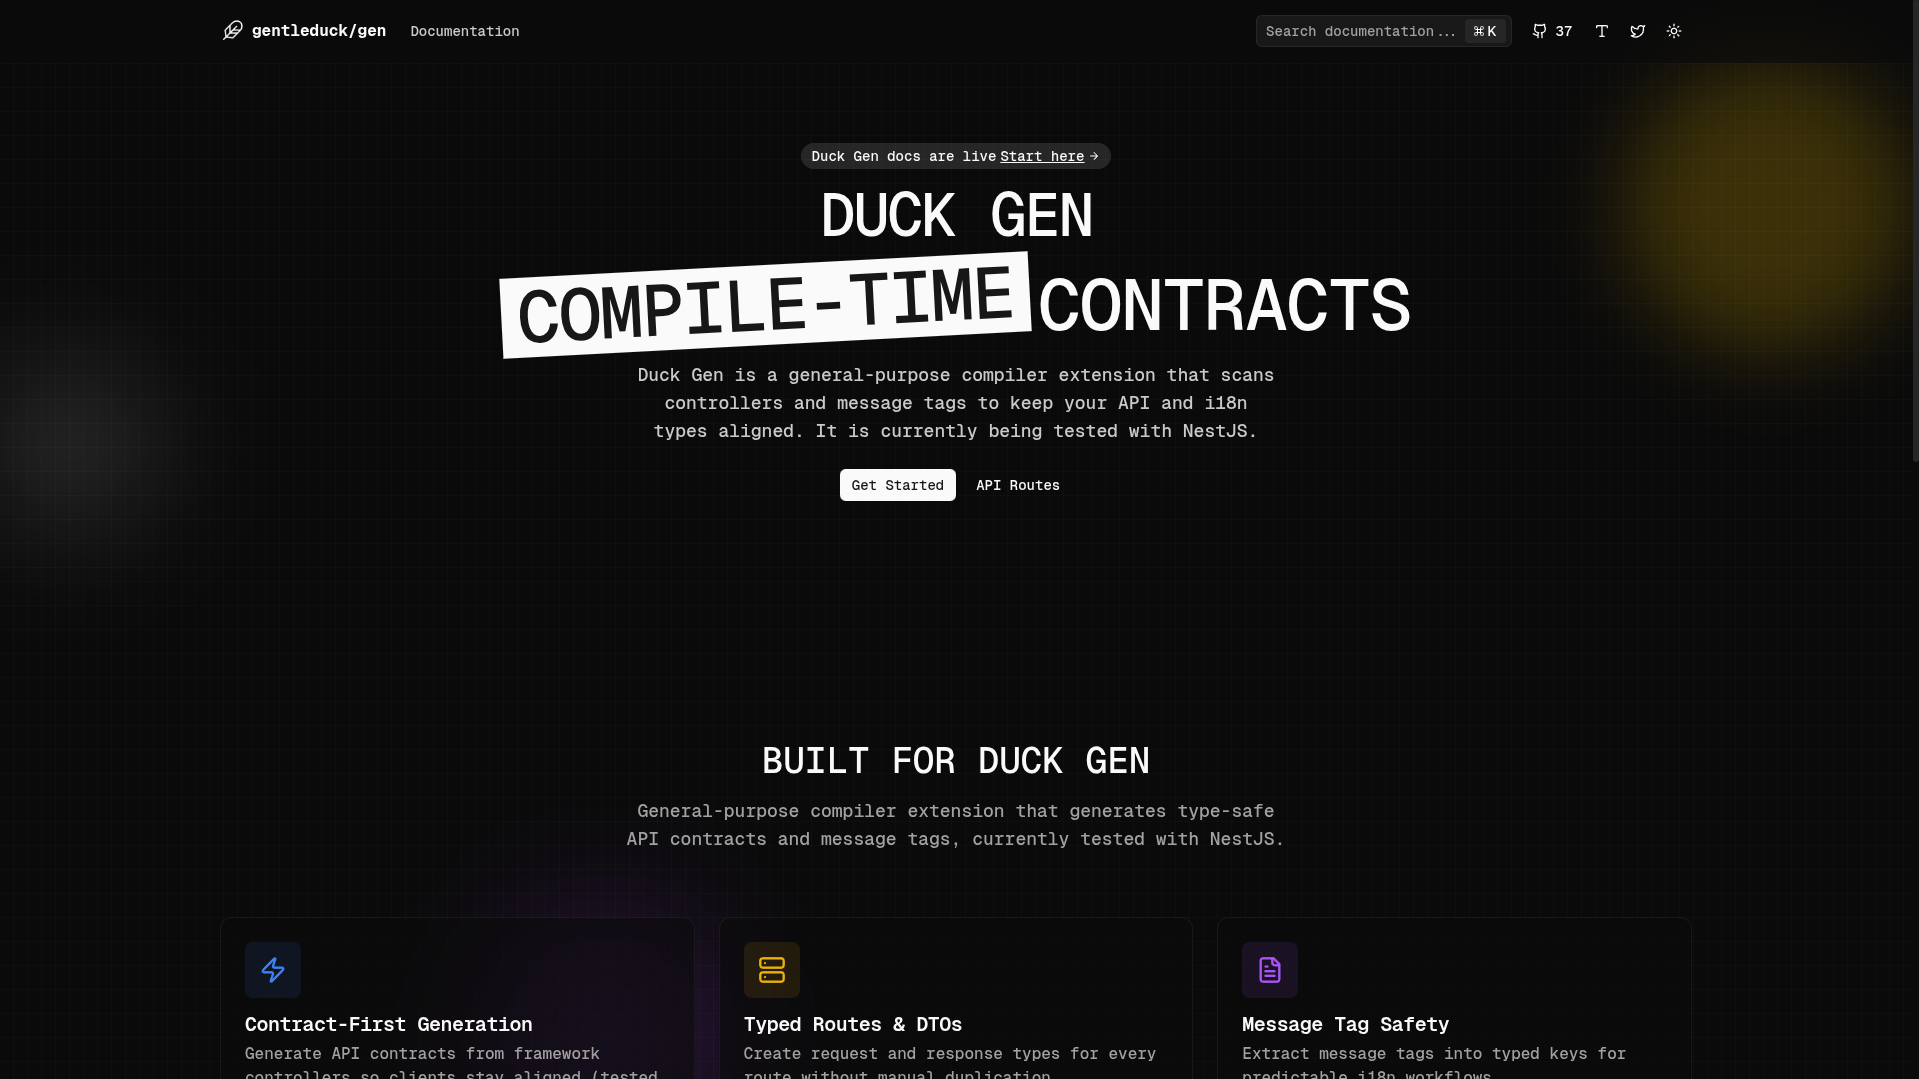
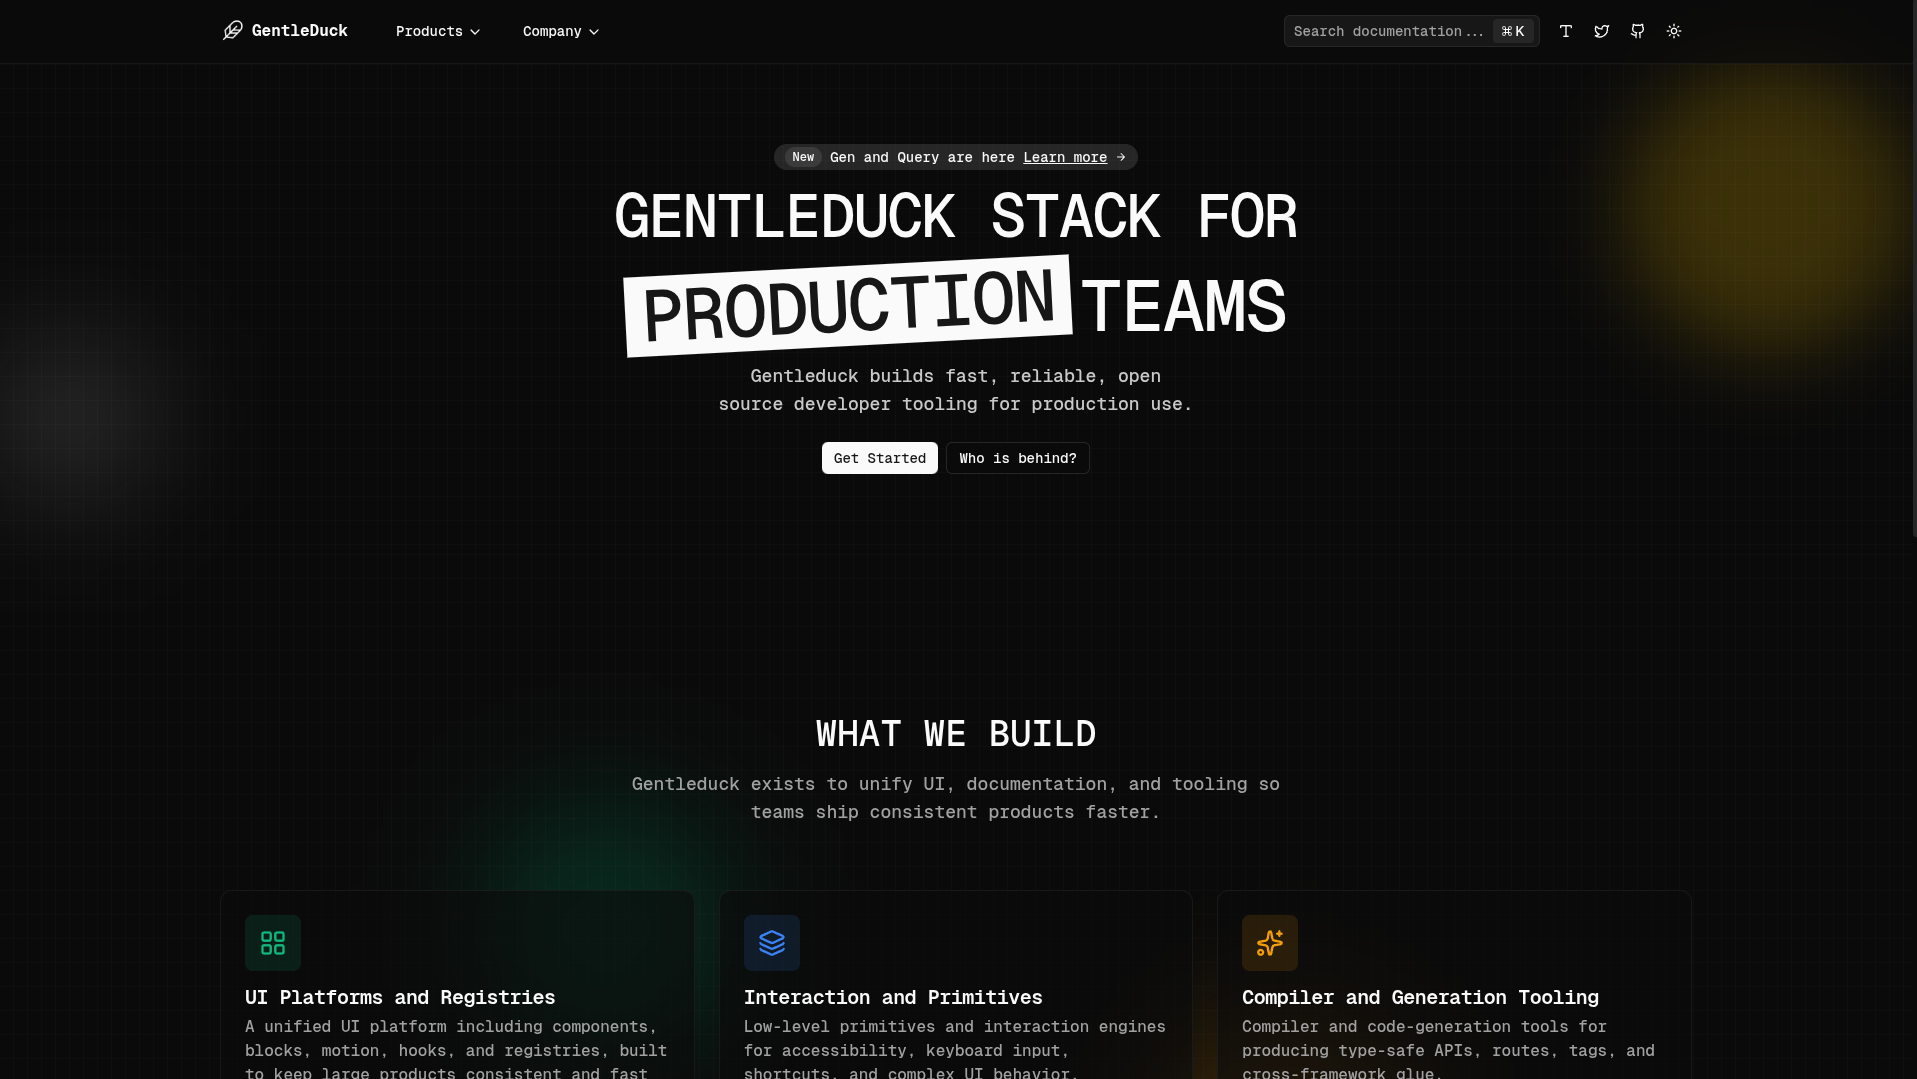
fix(all): add package extension for @hookform/resolvers to include zod dependency, update README files for duck-gen-docs and duck-ui-docs, and add initial README for duck-www

diff --git a/apps/duck-ui-docs/next.config.ts b/apps/duck-ui-docs/next.config.ts
@@ -3,6 +3,11 @@ import type { NextConfig } from 'next'
 
 const nextConfig: NextConfig = {
   devIndicators: false,
+  turbopack: {
+    resolveAlias: {
+      'zod/v4/core': path.resolve(__dirname, 'node_modules/zod/v4/core'),
+    },
+  },
   images: {
     remotePatterns: [
       {

diff --git a/apps/www/README.md b/apps/www/README.md
@@ -1,0 +1,31 @@
+<p align="center">
+  <img src="./public/og/root.png" alt="duck ui root" width="800"/>
+</p>
+
+# @gentleduck/duck-www
+
+Next.js documentation site for Gentleduck UI. Covers components, blocks, charts, themes, and registry-powered previews.
+
+## Stack
+- Next.js App Router
+- `@gentleduck/duck-docs` (shared docs kit)
+- Velite (MDX pipeline)
+- Registry tooling for component previews
+
+## Quick Start
+```bash
+pnpm --filter @gentleduck/www dev:docs
+pnpm --filter @gentleduck/www dev
+```
+
+## Scripts
+- `pnpm --filter @gentleduck/www dev` – run the dev server
+- `pnpm --filter @gentleduck/www build` – production build
+- `pnpm --filter @gentleduck/www start` – serve the build
+- `pnpm --filter @gentleduck/www dev:docs` – watch/generate MDX content
+- `pnpm --filter @gentleduck/www build:docs` – one-time MDX build
+- `pnpm --filter @gentleduck/www build:reg` – rebuild the UI registry and format output
+- `pnpm --filter @gentleduck/www lint` – lint
+
+## Environment
+- `.env` is optional; see `.env.example` for defaults.

diff --git a/apps/duck-ui-docs/README.md b/apps/duck-ui-docs/README.md
@@ -27,14 +27,5 @@ pnpm --filter @gentleduck/ui-docs dev
 - `pnpm --filter @gentleduck/ui-docs build:reg` – rebuild the UI registry and format output
 - `pnpm --filter @gentleduck/ui-docs lint` – lint
 
-## Content
-- `apps/duck-ui-docs/content/docs/**` – MDX sources
-- `apps/duck-ui-docs/.velite/` – generated content (do not edit)
-- `apps/duck-ui-docs/__ui_registry__/` – generated registry data
-- `apps/duck-ui-docs/public/r/` – registry exports used in docs
-
-## Registry Previews
-- `apps/duck-ui-docs/velite-configs/plugins/rehype-component.ts` injects registry source and previews into MDX.
-
 ## Environment
 - `.env` is optional; see `.env.example` for defaults.

diff --git a/apps/duck-gen-docs/README.md b/apps/duck-gen-docs/README.md
@@ -19,10 +19,5 @@ pnpm --filter @gentleduck/gen-docs dev
 - `pnpm --filter @gentleduck/gen-docs build:docs` – one-time MDX build
 - `pnpm --filter @gentleduck/gen-docs lint` – lint
 
-## Content
-- `apps/duck-gen-docs/content/docs/**` – MDX sources
-- `apps/duck-gen-docs/.velite/` – generated content (do not edit)
-- `apps/duck-gen-docs/velite.config.ts` – Velite config (shared via `@gentleduck/duck-docs/velite`)
-
 ## Environment
 - `.env` is optional; see `.env.example` for defaults.
